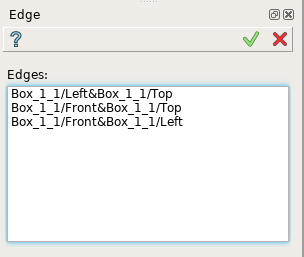
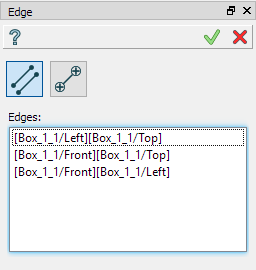
Task 3.10. BuildEdge from two points
Update documentation of Edge feature.

Changed region(s): [[0.0, 0.0, 1.0, 1.0]]

diff --git a/src/BuildPlugin/doc/examples/segment.py b/src/BuildPlugin/doc/examples/segment.py
@@ -1,0 +1,11 @@
+from salome.shaper import model
+
+model.begin()
+partSet = model.moduleDocument()
+Part_1 = model.addPart(partSet)
+Part_1_doc = Part_1.document()
+Box_1 = model.addBox(Part_1_doc, 10, 10, 10)
+Edge_1 = model.addEdge(Part_1_doc, model.selection("VERTEX", "[Box_1_1/Back][Box_1_1/Right][Box_1_1/Top]"),
+                                   model.selection("VERTEX", "[Box_1_1/Front][Box_1_1/Right][Box_1_1/Bottom]"))
+model.do()
+model.end()

diff --git a/src/BuildPlugin/doc/edgeFeature.rst b/src/BuildPlugin/doc/edgeFeature.rst
@@ -14,14 +14,26 @@ To create edges in the active part:
 
 .. centered::
   **Edge** button
-  
-The following property panel will be opened:
+
+The options to create edges:
+
+.. image:: images/edge_by_segments_32x32.png
+   :align: left
+**By edges** creates edges using already existing edges in other shapes.
+
+.. image:: images/edge_by_points_32x32.png
+   :align: left
+**By points** creates segment between two points.
+
+
+By edges
+--------
 
 .. image:: images/Edge.png
   :align: center
 
 .. centered::
-  Create edges
+  Create by edges
 
 Select one or several edges in the viewer.
 
@@ -45,3 +57,36 @@ The result of the operation will be a set of edges created from the selected sha
   Result of the operation.
 
 **See Also** a sample TUI Script of :ref:`tui_create_edge` operation.
+
+
+By two points
+-------------
+
+.. image:: images/EdgeByTwoPoints.png
+  :align: center
+
+.. centered::
+  Create by points
+
+Select two points in the viewer.
+
+**Apply** button creates a segment.
+
+**Cancel** button cancels the operation. 
+
+**TUI Command**:  *model.addEdge(Part_doc, Point_1, Point_2)*
+
+**Arguments**:   Part document + two points/vertices.
+
+Result
+""""""
+
+The result of the operation will be a segment bounded by selected points:
+
+.. image:: images/CreateEdgeByPoints.png
+  :align: center
+
+.. centered::
+  Result of the operation.
+
+**See Also** a sample TUI Script of :ref:`tui_create_segment` operation.

diff --git a/src/BuildPlugin/doc/TUI_edgeSegmentFeature.rst b/src/BuildPlugin/doc/TUI_edgeSegmentFeature.rst
@@ -1,0 +1,12 @@
+
+  .. _tui_create_segment:
+
+Create Edge by Points
+=====================
+
+.. literalinclude:: examples/segment.py
+    :linenos:
+    :language: python
+
+:download:`Download this script <examples/segment.py>` 
+   
